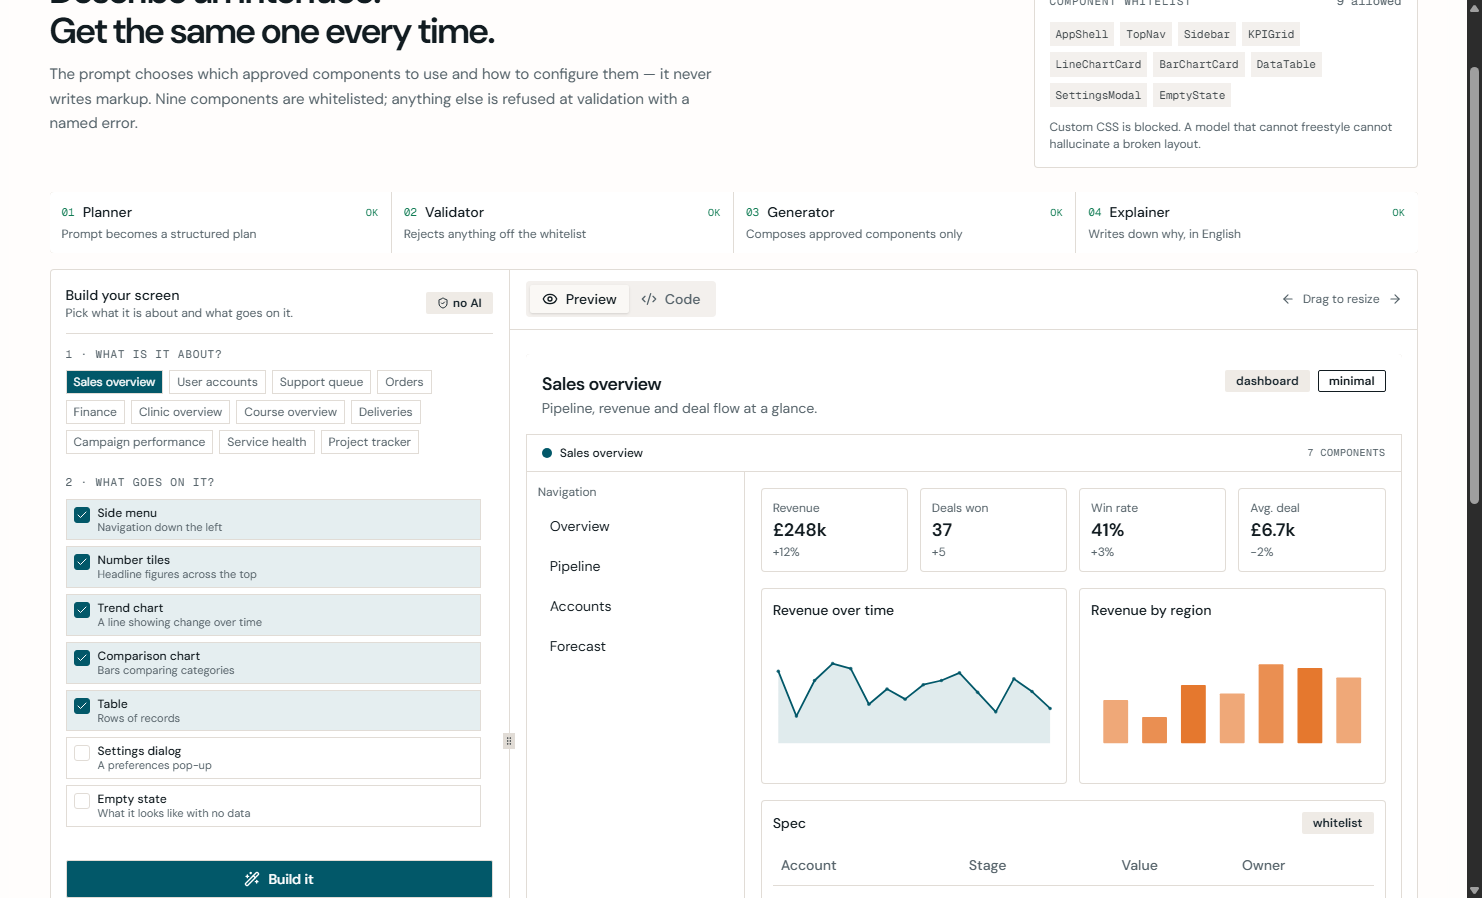
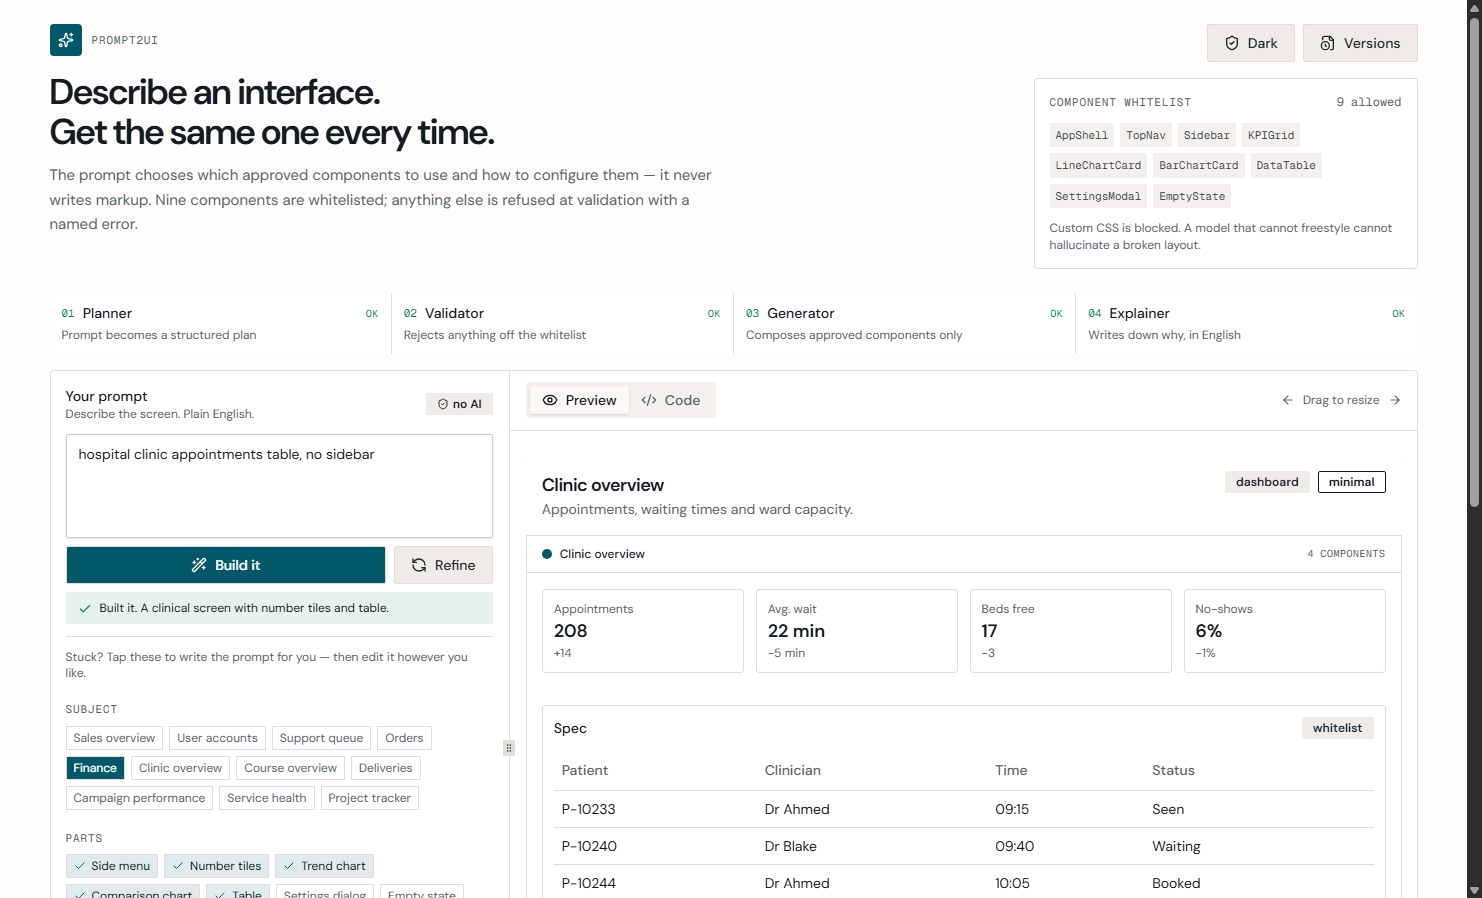
Put the prompt back at the centre, where the name says it is
The previous commit went too far. It replaced the prompt box with a
click-driven builder and hid typing behind a disclosure, in a project
called Prompt2UI whose entire claim is about what a prompt produces. The
one input the product is named after was the one thing you could not see.

The prompt box is now the first thing in the panel, large, pre-filled with
a real prompt so the format is obvious, with Build it directly beneath.

The shortcuts remain but have changed job: instead of holding state of
their own, they write into the prompt box. Tapping 'Finance' or 'Bar
chart' rewrites the sentence in front of you, so the shortcuts teach the
wording rather than replacing it, and there is only one source of truth.
Typing by hand clears the chip highlights, since they would otherwise
claim to describe a sentence the user has since rewritten.

Also lists the vocabulary in the panel - the negation forms, 'title:',
and the subjects it recognises - so what the planner understands is
visible rather than guessed at.

diff --git a/client/src/pages/ui-studio.tsx b/client/src/pages/ui-studio.tsx
@@ -600,7 +600,7 @@ export default function UIStudio() {
   ]);
 
   const [prompt, setPrompt] = useState<string>(
-    "Create a dashboard with a sidebar, charts, and a table. Make it minimal and add a settings modal.",
+    "A minimal support dashboard with a sidebar, KPIs, a trend chart and a table.",
   );
 
   const initialPlan = useMemo<UIPlan>(
@@ -638,10 +638,17 @@ export default function UIStudio() {
     "DataTable",
   ]);
   const [toneChoice, setToneChoice] = useState<UIPlan["tone"]>("minimal");
-  const composed = useMemo(
-    () => composePrompt(subject, parts, toneChoice),
-    [subject, parts, toneChoice],
-  );
+  /** A shortcut rewrites the prompt box, so the prompt stays the one input. */
+  function applyChoice(
+    nextSubject: string | null,
+    nextParts: ComponentName[],
+    nextTone: UIPlan["tone"],
+  ) {
+    setSubject(nextSubject);
+    setParts(nextParts);
+    setToneChoice(nextTone);
+    setPrompt(composePrompt(nextSubject, nextParts, nextTone));
+  }
 
   const chatViewportRef = useRef<HTMLDivElement | null>(null);
 
@@ -843,9 +850,9 @@ export default function UIStudio() {
               <ResizablePanel defaultSize={32} minSize={24} className="p-4">
                 <div className="flex items-center justify-between gap-3">
                   <div>
-                    <div className="text-sm font-medium">Build your screen</div>
+                    <div className="text-sm font-medium">Your prompt</div>
                     <p className="text-xs text-muted-foreground">
-                      Pick what it is about and what goes on it.
+                      Describe the screen. Plain English.
                     </p>
                   </div>
                   <Badge variant="secondary" className="gap-1" data-testid="badge-deterministic">
@@ -853,18 +860,90 @@ export default function UIStudio() {
                   </Badge>
                 </div>
 
+                <div className="mt-3 space-y-2">
+                  <Textarea
+                    value={prompt}
+                    onChange={(e) => {
+                      const next = e.target.value;
+                      setPrompt(next);
+                      // Typing by hand means the shortcuts no longer describe
+                      // what is in the box, so they stop claiming to.
+                      if (next !== composePrompt(subject, parts, toneChoice)) {
+                        setSubject(null);
+                        setParts([]);
+                      }
+                    }}
+                    placeholder="a support desk with open tickets and a bar chart, no sidebar"
+                    className="min-h-[104px] resize-none text-[15px] leading-relaxed"
+                    data-testid="input-prompt"
+                    aria-label="Describe the screen you want"
+                  />
+
+                  <div className="flex flex-wrap gap-2">
+                    <Button
+                      className="flex-1 gap-2 ui-press"
+                      onClick={() => {
+                        pushMessage("user", prompt);
+                        runAgent(prompt, "generate");
+                      }}
+                      data-testid="button-generate"
+                    >
+                      <Wand2 className="h-4 w-4" />
+                      Build it
+                    </Button>
+                    <Button
+                      variant="secondary"
+                      className="gap-2 ui-press"
+                      onClick={() => {
+                        pushMessage("user", prompt);
+                        runAgent(prompt, "modify");
+                      }}
+                      title="Apply this prompt on top of what is already on screen"
+                      data-testid="button-modify"
+                    >
+                      <RefreshCcw className="h-3.5 w-3.5" />
+                      Refine
+                    </Button>
+                  </div>
+
+                  {lastReply ? (
+                    <div
+                      className="flex items-start gap-2 rounded-sm bg-[hsl(var(--success))]/10 px-3 py-2"
+                      role="status"
+                      data-testid="status-built"
+                    >
+                      <Check className="mt-0.5 h-3.5 w-3.5 shrink-0 text-[hsl(var(--success))]" />
+                      <span className="text-xs leading-snug">{lastReply}</span>
+                    </div>
+                  ) : null}
+
+                  {error ? (
+                    <div
+                      className="rounded-sm bg-destructive/10 px-3 py-2 text-sm text-destructive"
+                      role="alert"
+                      data-testid="status-error"
+                    >
+                      {error}
+                    </div>
+                  ) : null}
+                </div>
+
                 <Separator className="my-3" />
 
-                <ScrollArea className="h-[56vh] pr-3" data-testid="scroll-builder">
+                <ScrollArea className="h-[40vh] pr-3" data-testid="scroll-builder">
                   <div className="space-y-5">
+                    <p className="text-xs text-muted-foreground">
+                      Stuck? Tap these to write the prompt for you — then edit it however you like.
+                    </p>
+
                     <div>
-                      <div className="ui-label mb-2">1 · What is it about?</div>
+                      <div className="ui-label mb-2">Subject</div>
                       <div className="flex flex-wrap gap-1.5" data-testid="list-subjects">
                         {SUBJECTS.map((s) => (
                           <button
                             key={s.id}
                             type="button"
-                            onClick={() => setSubject(subject === s.id ? null : s.id)}
+                            onClick={() => applyChoice(subject === s.id ? null : s.id, parts, toneChoice)}
                             className={cn(
                               "rounded-sm px-2 py-1 text-xs transition-colors ui-inset-ring",
                               subject === s.id
@@ -880,45 +959,35 @@ export default function UIStudio() {
                     </div>
 
                     <div>
-                      <div className="ui-label mb-2">2 · What goes on it?</div>
-                      <div className="grid gap-1.5" data-testid="list-parts">
+                      <div className="ui-label mb-2">Parts</div>
+                      <div className="flex flex-wrap gap-1.5" data-testid="list-parts">
                         {PARTS.map((part) => {
                           const on = parts.includes(part.component);
                           return (
                             <button
                               key={part.component}
                               type="button"
+                              title={part.hint}
                               onClick={() =>
-                                setParts((cur) =>
-                                  cur.includes(part.component)
-                                    ? cur.filter((c) => c !== part.component)
-                                    : [...cur, part.component],
+                                applyChoice(
+                                  subject,
+                                  on
+                                    ? parts.filter((c) => c !== part.component)
+                                    : [...parts, part.component],
+                                  toneChoice,
                                 )
                               }
                               className={cn(
-                                "flex items-start gap-2 rounded-sm px-2 py-1.5 text-left transition-colors ui-inset-ring",
-                                on ? "bg-primary/10" : "bg-card hover:bg-muted",
+                                "flex items-center gap-1.5 rounded-sm px-2 py-1 text-xs transition-colors ui-inset-ring",
+                                on
+                                  ? "bg-primary/12 text-foreground"
+                                  : "bg-card text-muted-foreground hover:bg-muted hover:text-foreground",
                               )}
                               aria-pressed={on}
                               data-testid={`toggle-part-${part.component}`}
                             >
-                              <span
-                                className={cn(
-                                  "mt-0.5 grid h-4 w-4 shrink-0 place-items-center rounded-[3px] border",
-                                  on
-                                    ? "border-primary bg-primary text-primary-foreground"
-                                    : "border-border",
-                                )}
-                                aria-hidden="true"
-                              >
-                                {on ? <Check className="h-3 w-3" /> : null}
-                              </span>
-                              <span className="min-w-0">
-                                <span className="block text-xs font-medium">{part.label}</span>
-                                <span className="block text-[11px] leading-tight text-muted-foreground">
-                                  {part.hint}
-                                </span>
-                              </span>
+                              {on ? <Check className="h-3 w-3 text-primary" /> : null}
+                              {part.label}
                             </button>
                           );
                         })}
@@ -926,13 +995,13 @@ export default function UIStudio() {
                     </div>
 
                     <div>
-                      <div className="ui-label mb-2">3 · Style</div>
+                      <div className="ui-label mb-2">Style</div>
                       <div className="flex flex-wrap gap-1.5" data-testid="list-tones">
                         {TONES.map((t) => (
                           <button
                             key={t.id}
                             type="button"
-                            onClick={() => setToneChoice(t.id)}
+                            onClick={() => applyChoice(subject, parts, t.id)}
                             className={cn(
                               "rounded-sm px-2 py-1 text-xs transition-colors ui-inset-ring",
                               toneChoice === t.id
@@ -947,88 +1016,17 @@ export default function UIStudio() {
                       </div>
                     </div>
 
-                    <div className="rounded-sm bg-muted/50 p-3" data-testid="text-composed">
-                      <div className="ui-label mb-1">This asks for</div>
-                      <p className="text-sm leading-snug">{composed}</p>
+                    <div>
+                      <div className="ui-label mb-2">Phrases it knows</div>
+                      <p className="text-xs leading-relaxed text-muted-foreground">
+                        Say <em>no sidebar</em> or <em>without charts</em> to leave something out.
+                        Say <em>title: Bloom Store</em> to name it. Subjects it recognises include
+                        sales, tickets, users, orders, invoices, patients, students, deliveries,
+                        campaigns, servers and sprints.
+                      </p>
                     </div>
                   </div>
                 </ScrollArea>
-
-                <div className="mt-3 space-y-2">
-                  <Button
-                    className="w-full gap-2 ui-press"
-                    onClick={() => {
-                      pushMessage("user", composed);
-                      runAgent(composed, "generate");
-                    }}
-                    data-testid="button-generate"
-                  >
-                    <Wand2 className="h-4 w-4" />
-                    Build it
-                  </Button>
-
-                  {lastReply ? (
-                    <div
-                      className="flex items-start gap-2 rounded-sm bg-[hsl(var(--success))]/10 px-3 py-2"
-                      role="status"
-                      data-testid="status-built"
-                    >
-                      <Check className="mt-0.5 h-3.5 w-3.5 shrink-0 text-[hsl(var(--success))]" />
-                      <span className="text-xs leading-snug">{lastReply}</span>
-                    </div>
-                  ) : null}
-
-                  <details className="rounded-sm ui-inset-ring bg-card" data-testid="details-freeform">
-                    <summary className="cursor-pointer px-3 py-2 text-xs text-muted-foreground">
-                      Or describe it in your own words
-                    </summary>
-                    <div className="space-y-2 border-t p-3">
-                      <Textarea
-                        value={prompt}
-                        onChange={(e) => setPrompt(e.target.value)}
-                        placeholder="e.g. a support desk with open tickets and a bar chart, no sidebar"
-                        className="min-h-[72px] resize-none text-sm"
-                        data-testid="input-prompt"
-                      />
-                      <div className="flex flex-wrap gap-2">
-                        <Button
-                          size="sm"
-                          className="gap-2 ui-press"
-                          onClick={() => {
-                            pushMessage("user", prompt);
-                            runAgent(prompt, "generate");
-                          }}
-                          data-testid="button-generate-text"
-                        >
-                          Build from text
-                        </Button>
-                        <Button
-                          size="sm"
-                          variant="secondary"
-                          className="gap-2 ui-press"
-                          onClick={() => {
-                            pushMessage("user", prompt);
-                            runAgent(prompt, "modify");
-                          }}
-                          data-testid="button-modify"
-                        >
-                          <RefreshCcw className="h-3.5 w-3.5" />
-                          Refine current
-                        </Button>
-                      </div>
-                    </div>
-                  </details>
-
-                  {error ? (
-                    <div
-                      className="rounded-sm bg-destructive/10 px-3 py-2 text-sm text-destructive"
-                      role="alert"
-                      data-testid="status-error"
-                    >
-                      {error}
-                    </div>
-                  ) : null}
-                </div>
               </ResizablePanel>
 
               <ResizableHandle withHandle />
